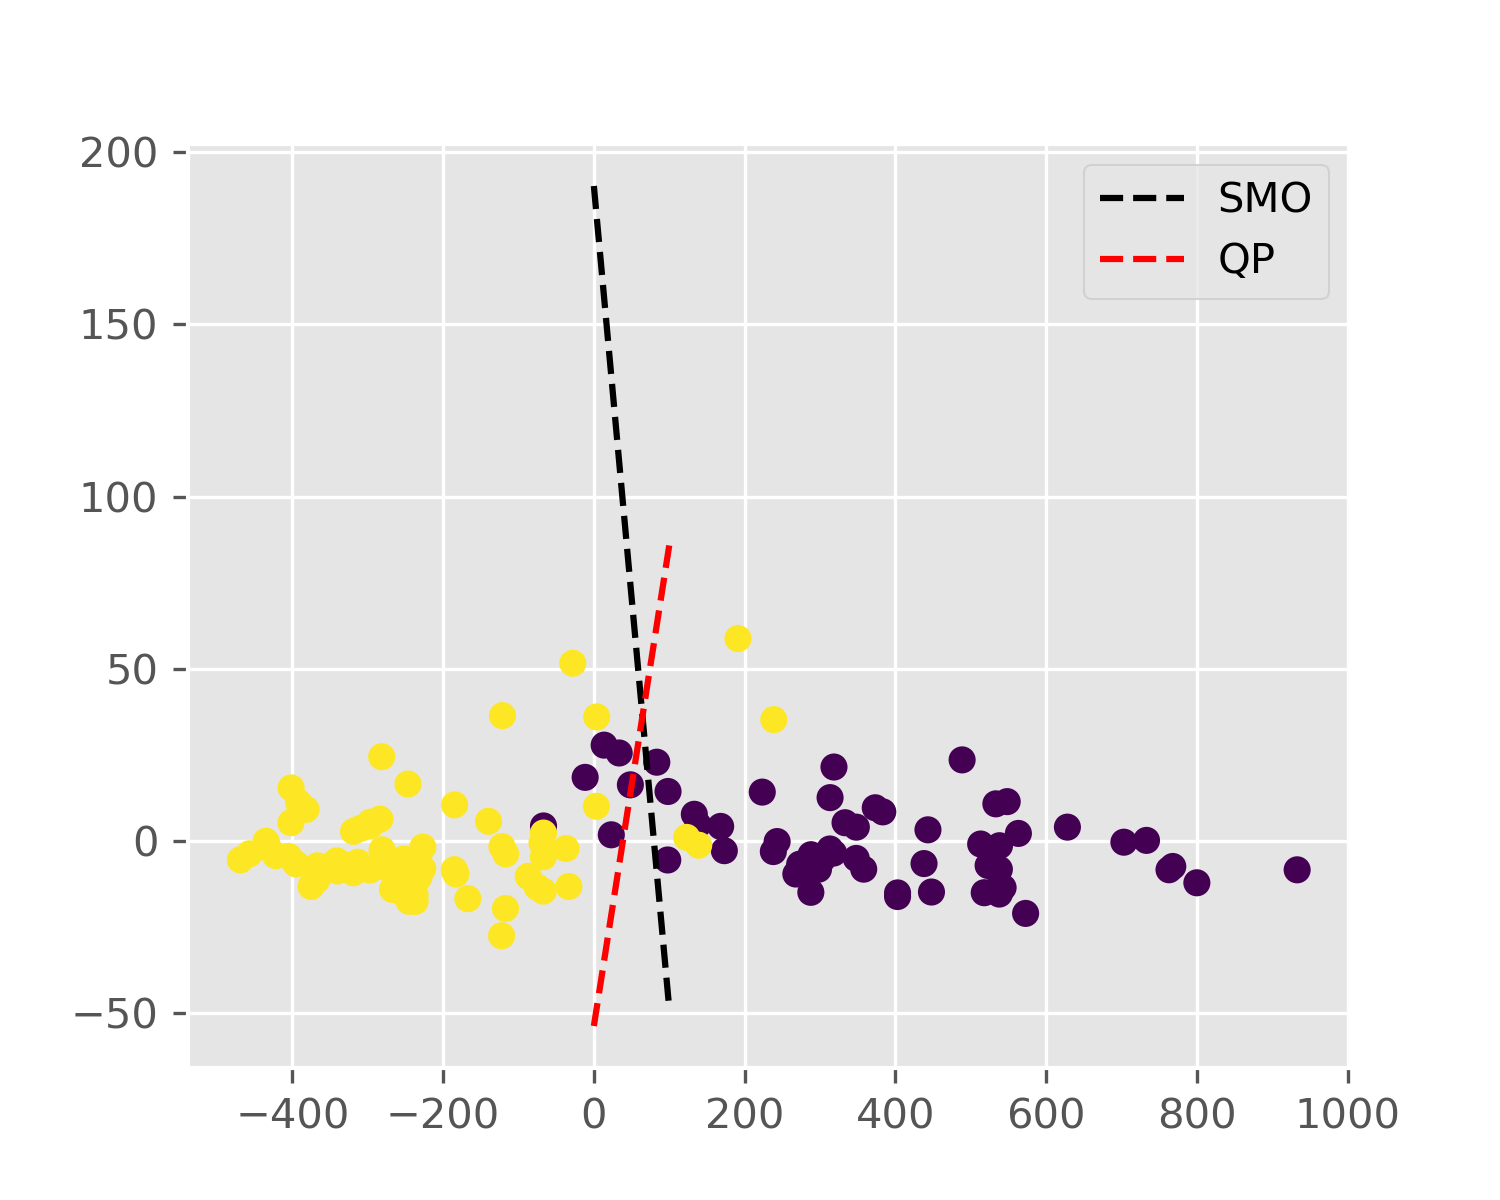
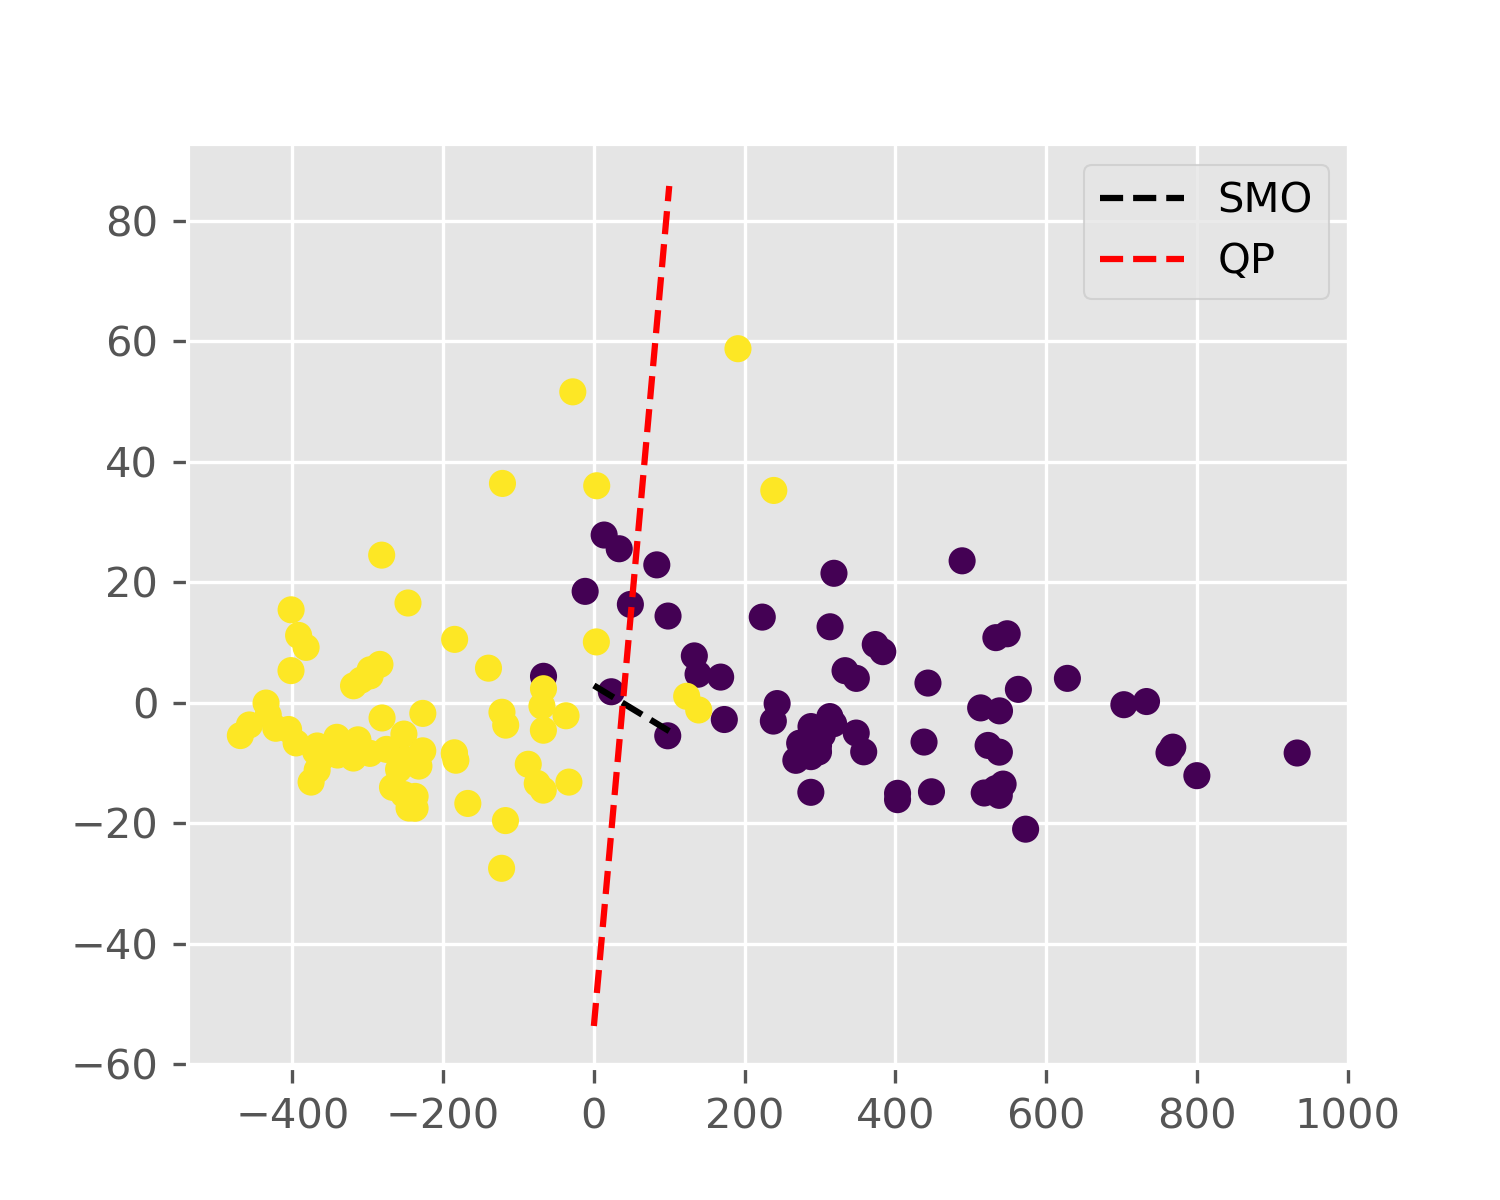
master

diff --git a/svm/svm.py b/svm/svm.py
@@ -145,13 +145,14 @@ class SVC(object):
                                                          0.0 < a[k] and a[k] < self.C)]
                 for j in svp_list:
                     ai, aj = self.__solve(i, j)
-                    if fabs(a[i] - ai) > self.eps:
+                    # fabs(a[i] - ai) > self.eps
+                    if self.__object_value_change(ai, aj, i, j):
                         return i, j
 
                 all_list = [k for k in range(self.N) if k != i]
                 for j in all_list:
                     ai, aj = self.__solve(i, j)
-                    if fabs(a[i] - ai) > self.eps:
+                    if self.__object_value_change(ai, aj, i, j):
                         return i, j
 
         return best_i, best_j

diff --git a/svm/test_svc.py b/svm/test_svc.py
@@ -54,7 +54,7 @@ def plot_split_line(dataName, clf1, clf2, X, y, filename):
 def test(dataName):
     X, y = load_data(dataName, 2)
     start = time.time()
-    clf1 = SVC(C=1.0, kernel="linear", eps=1e-5, max_iter=2000)
+    clf1 = SVC(C=1.0, kernel="linear", eps=1e-10, max_iter=2000)
     clf1.fit(X, y)
     print('time span:', time.time() - start)
     y_1 = clf1.predict(X)
@@ -81,4 +81,4 @@ def test(dataName):
 if __name__ == "__main__":
     # sys.stdout = open("svm\\out.txt", "w")
     test("iris")
-    test("wine")
+    # test("wine")

diff --git a/README.md b/README.md
@@ -1,4 +1,3 @@
 # ml
-implement machine learning algorithms by hand 
-
+implement machine learning algorithms by hand
 
